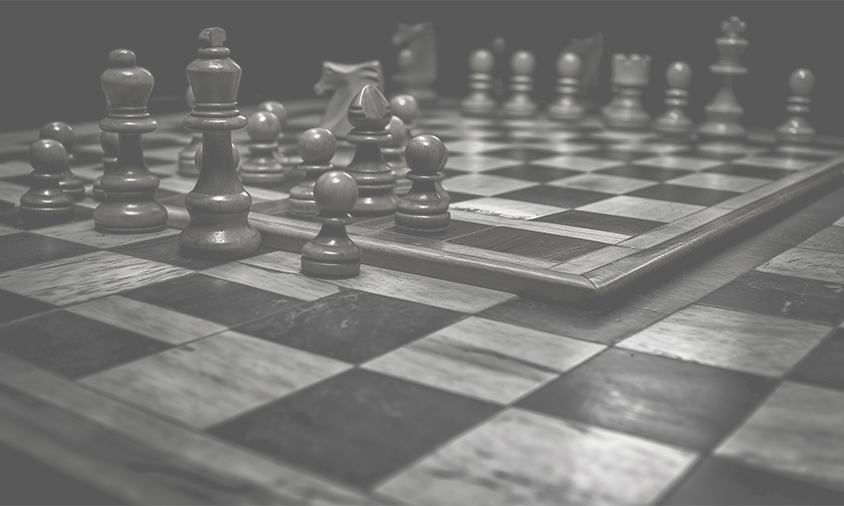
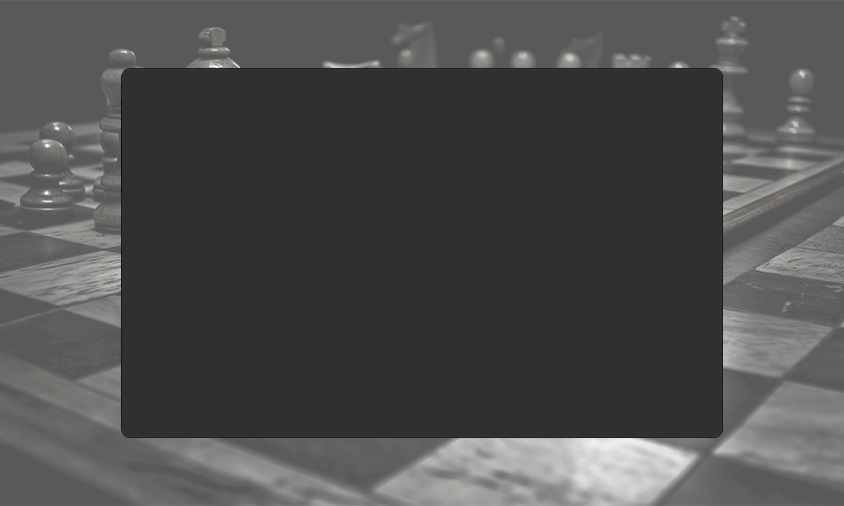
feature: endgame screen

diff --git a/menu/EndGameScreen.java b/menu/EndGameScreen.java
@@ -104,63 +104,69 @@ public class EndGameScreen extends JFrame {
         jogarNovamente.setCursor(new Cursor(Cursor.DEFAULT_CURSOR));
         jogarNovamente.setHorizontalAlignment(SwingConstants.CENTER);
 
-        GroupLayout FundoLayout = new GroupLayout(Fundo);
+        javax.swing.GroupLayout FundoLayout = new javax.swing.GroupLayout(Fundo);
         Fundo.setLayout(FundoLayout);
         FundoLayout.setHorizontalGroup(
-            FundoLayout.createParallelGroup(GroupLayout.Alignment.LEADING)
+            FundoLayout.createParallelGroup(javax.swing.GroupLayout.Alignment.LEADING)
             .addGroup(FundoLayout.createSequentialGroup()
                 .addGap(646, 646, 646)
                 .addGap(0, 0, Short.MAX_VALUE))
-            .addGroup(GroupLayout.Alignment.TRAILING, FundoLayout.createSequentialGroup()
-                .addGap(58, 58, 58)
-                .addComponent(confirma, GroupLayout.PREFERRED_SIZE, 162, GroupLayout.PREFERRED_SIZE)
-                .addPreferredGap(LayoutStyle.ComponentPlacement.RELATED, GroupLayout.DEFAULT_SIZE, Short.MAX_VALUE)
-                .addComponent(cancela, GroupLayout.PREFERRED_SIZE, 162, GroupLayout.PREFERRED_SIZE)
-                .addGap(90, 90, 90))
+            .addGroup(javax.swing.GroupLayout.Alignment.TRAILING, FundoLayout.createSequentialGroup()
+                .addGap(80, 80, 80)
+                .addComponent(confirma, javax.swing.GroupLayout.PREFERRED_SIZE, 162, javax.swing.GroupLayout.PREFERRED_SIZE)
+                .addPreferredGap(javax.swing.LayoutStyle.ComponentPlacement.RELATED, javax.swing.GroupLayout.DEFAULT_SIZE, Short.MAX_VALUE)
+                .addComponent(cancela, javax.swing.GroupLayout.PREFERRED_SIZE, 162, javax.swing.GroupLayout.PREFERRED_SIZE)
+                .addGap(105, 105, 105))
             .addGroup(FundoLayout.createSequentialGroup()
-                .addGroup(FundoLayout.createParallelGroup(GroupLayout.Alignment.LEADING)
+                .addGroup(FundoLayout.createParallelGroup(javax.swing.GroupLayout.Alignment.LEADING)
                     .addGroup(FundoLayout.createSequentialGroup()
-                        .addGap(35, 35, 35)
+                        .addGap(32, 32, 32)
                         .addComponent(jogarNovamente))
                     .addGroup(FundoLayout.createSequentialGroup()
-                        .addGap(121, 121, 121)
+                        .addGap(114, 114, 114)
                         .addComponent(labelResultado)))
-                .addContainerGap(GroupLayout.DEFAULT_SIZE, Short.MAX_VALUE))
+                .addContainerGap(javax.swing.GroupLayout.DEFAULT_SIZE, Short.MAX_VALUE))
         );
         FundoLayout.setVerticalGroup(
-            FundoLayout.createParallelGroup(GroupLayout.Alignment.LEADING)
+            FundoLayout.createParallelGroup(javax.swing.GroupLayout.Alignment.LEADING)
             .addGroup(FundoLayout.createSequentialGroup()
-                .addGap(50, 50, 50)
-                .addComponent(jogarNovamente, GroupLayout.PREFERRED_SIZE, 65, GroupLayout.PREFERRED_SIZE)
-                .addGap(40, 40, 40)
-                .addComponent(labelResultado, GroupLayout.PREFERRED_SIZE, 44, GroupLayout.PREFERRED_SIZE)
-                .addPreferredGap(LayoutStyle.ComponentPlacement.RELATED, 49, Short.MAX_VALUE)
-                .addGroup(FundoLayout.createParallelGroup(GroupLayout.Alignment.BASELINE)
-                    .addComponent(confirma, GroupLayout.PREFERRED_SIZE, 47, GroupLayout.PREFERRED_SIZE)
-                    .addComponent(cancela, GroupLayout.PREFERRED_SIZE, 47, GroupLayout.PREFERRED_SIZE))
-                .addGap(50, 50, 50)
-                .addContainerGap(GroupLayout.DEFAULT_SIZE, Short.MAX_VALUE))
+                .addGap(21, 21, 21)
+                .addComponent(jogarNovamente, javax.swing.GroupLayout.PREFERRED_SIZE, 64, javax.swing.GroupLayout.PREFERRED_SIZE)
+                .addGap(57, 57, 57)
+                .addComponent(labelResultado, javax.swing.GroupLayout.PREFERRED_SIZE, 44, javax.swing.GroupLayout.PREFERRED_SIZE)
+                .addPreferredGap(javax.swing.LayoutStyle.ComponentPlacement.RELATED, 64, Short.MAX_VALUE)
+                .addGroup(FundoLayout.createParallelGroup(javax.swing.GroupLayout.Alignment.BASELINE)
+                .addComponent(confirma, javax.swing.GroupLayout.PREFERRED_SIZE, 47, javax.swing.GroupLayout.PREFERRED_SIZE)
+                .addComponent(cancela, javax.swing.GroupLayout.PREFERRED_SIZE, 47, javax.swing.GroupLayout.PREFERRED_SIZE))
+                .addContainerGap(22, Short.MAX_VALUE))
         );
 
-        GroupLayout layout = new GroupLayout(getContentPane());
+        /* Imagem por macrovector disponível em freepik.com*/
+        Imagem.setIcon(new javax.swing.ImageIcon(getClass().getResource("../assets/images/endgame_background.png")));
+
+        javax.swing.GroupLayout layout = new javax.swing.GroupLayout(getContentPane());
         getContentPane().setLayout(layout);
         layout.setHorizontalGroup(
-            layout.createParallelGroup(GroupLayout.Alignment.LEADING)
-            .addGroup(layout.createSequentialGroup()
-                .addGap(102, 102, 102)
-                .addComponent(Fundo, GroupLayout.PREFERRED_SIZE, 623, GroupLayout.PREFERRED_SIZE)
-                .addContainerGap(119, Short.MAX_VALUE))
-            .addGroup(layout.createParallelGroup(GroupLayout.Alignment.LEADING)
-                .addComponent(Imagem, GroupLayout.PREFERRED_SIZE, 844, Short.MAX_VALUE))
+            layout.createParallelGroup(javax.swing.GroupLayout.Alignment.LEADING)
+            .addGroup(javax.swing.GroupLayout.Alignment.TRAILING, layout.createSequentialGroup()
+                .addContainerGap(120, Short.MAX_VALUE)
+                .addComponent(Fundo, javax.swing.GroupLayout.PREFERRED_SIZE, 601, javax.swing.GroupLayout.PREFERRED_SIZE)
+                .addGap(123, 123, 123))
+            .addGroup(layout.createParallelGroup(javax.swing.GroupLayout.Alignment.LEADING)
+                .addGroup(layout.createSequentialGroup()
+                    .addComponent(Imagem)
+                    .addGap(0, 0, Short.MAX_VALUE)))
         );
         layout.setVerticalGroup(
-            layout.createParallelGroup(GroupLayout.Alignment.LEADING)
+            layout.createParallelGroup(javax.swing.GroupLayout.Alignment.LEADING)
             .addGroup(layout.createSequentialGroup()
-                .addGap(60, 60, 60)
-                .addComponent(Fundo, GroupLayout.PREFERRED_SIZE, GroupLayout.DEFAULT_SIZE, GroupLayout.PREFERRED_SIZE)
-                .addContainerGap(72, Short.MAX_VALUE))
-            .addGroup(layout.createParallelGroup(GroupLayout.Alignment.LEADING)
-                .addComponent(Imagem, GroupLayout.DEFAULT_SIZE, GroupLayout.DEFAULT_SIZE, Short.MAX_VALUE))
+                .addGap(75, 75, 75)
+                .addComponent(Fundo, javax.swing.GroupLayout.PREFERRED_SIZE, javax.swing.GroupLayout.DEFAULT_SIZE, javax.swing.GroupLayout.PREFERRED_SIZE)
+                .addContainerGap(78, Short.MAX_VALUE))
+            .addGroup(layout.createParallelGroup(javax.swing.GroupLayout.Alignment.LEADING)
+                .addGroup(layout.createSequentialGroup()
+                    .addComponent(Imagem)
+                    .addGap(0, 0, Short.MAX_VALUE)))
         );
 
         pack();
@@ -176,11 +182,11 @@ public class EndGameScreen extends JFrame {
     }
 
     private void cancelaActionPerformed(ActionEvent evt) {
-        JFrame confirmacao = new JFrame("Deseja realmente sair?");
+        JFrame confirmacao = new JFrame("Deseja realmente cancela?");
         String[] opcao = new String[2];
         opcao[0] = "Sim";
         opcao[1] = "Não";
-        var escolha = JOptionPane.showOptionDialog(null, "Deseja realmente sair?", "Xadrez", 0, JOptionPane.INFORMATION_MESSAGE, null, opcao, null);
+        var escolha = JOptionPane.showOptionDialog(null, "Deseja realmente cancela?", "Xadrez", 0, JOptionPane.INFORMATION_MESSAGE, null, opcao, null);
         if (escolha == 0) {
             System.exit(0);
         }
